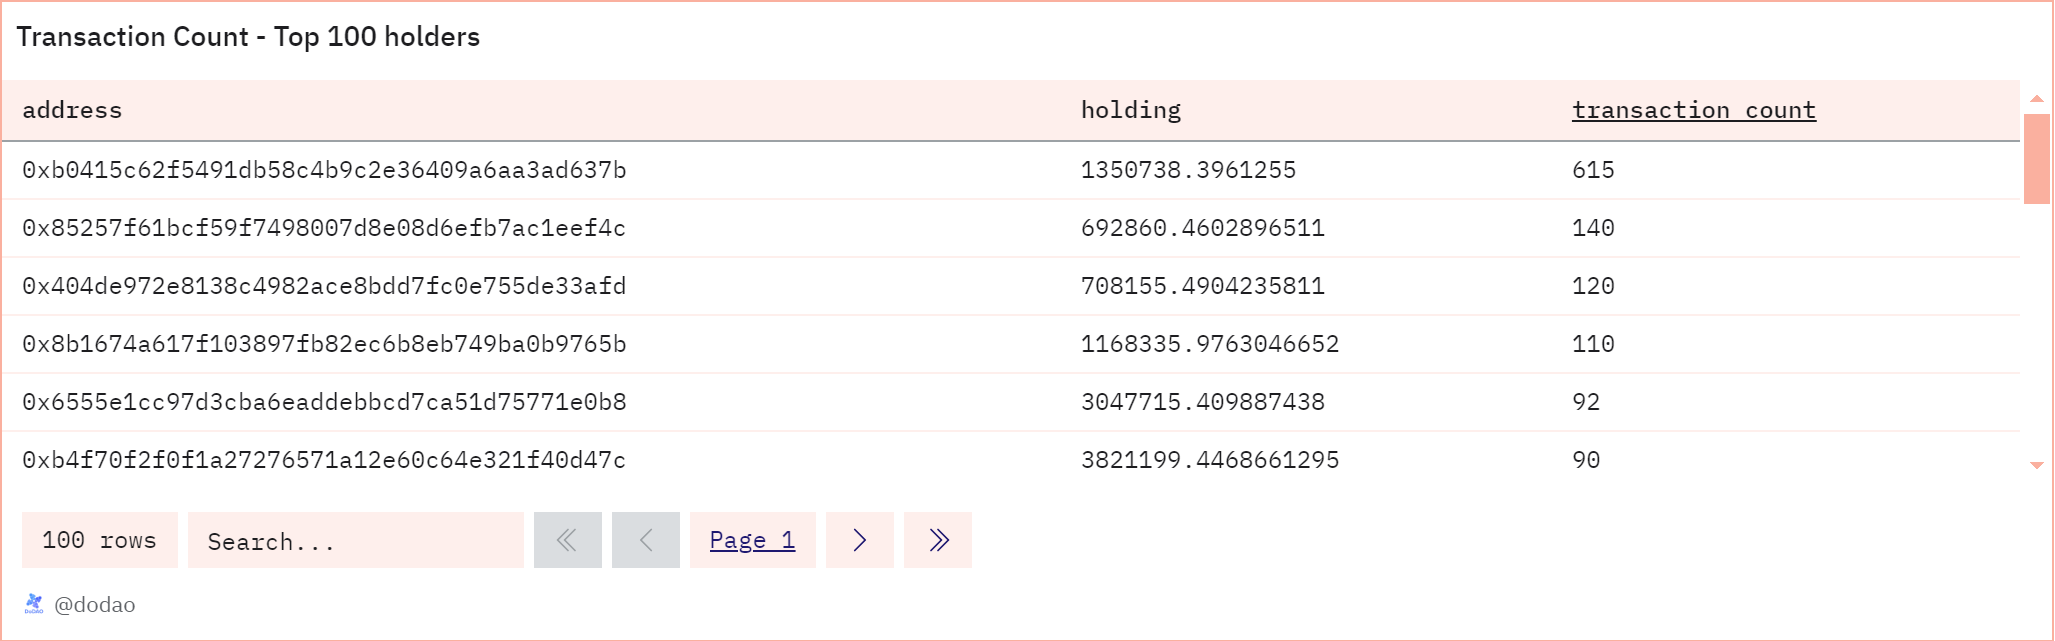
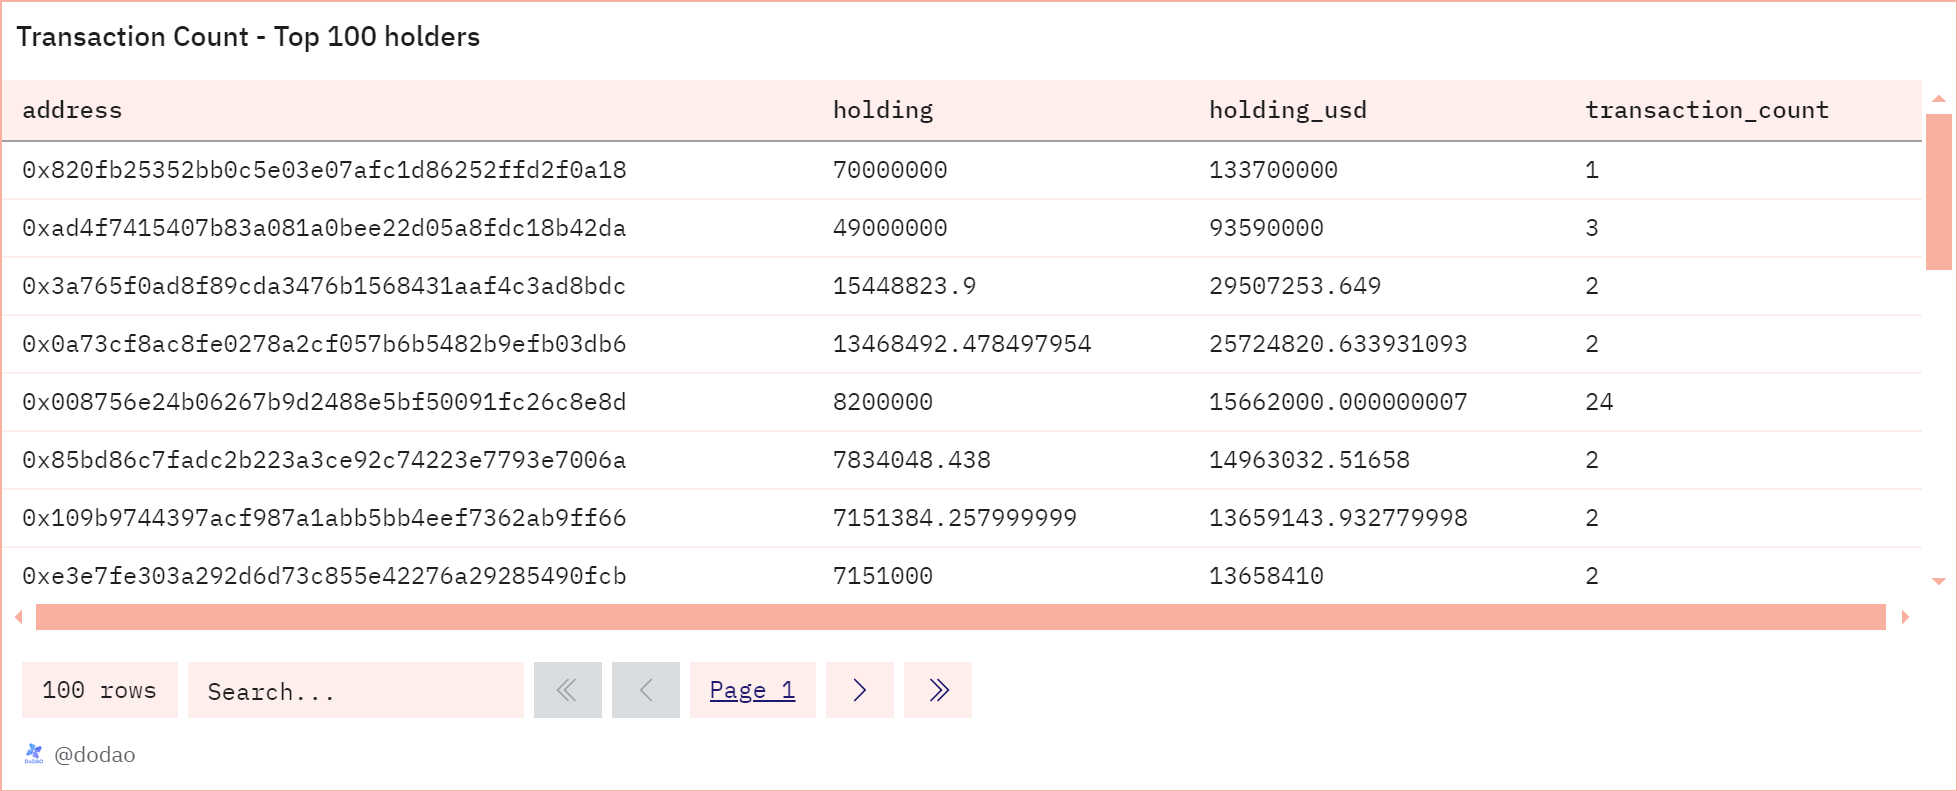
added holding_usd into transation count - top 100 holders

diff --git a/src/compound/asset-analysis/07-transaction-count-top-100-holder/README.md b/src/compound/asset-analysis/07-transaction-count-top-100-holder/README.md
@@ -4,7 +4,7 @@ This query calculates the total transaction count for the top 100 holders of the
 
 # Graph
 
-![assetDistributionOnDex](transaction-count.png)
+![transactionCount](transaction-count.png)
 
 # Relevance
 
@@ -15,24 +15,23 @@ This query calculates the total transaction count for the top 100 holders of the
 
 This query calculates the top 100 token holders by their token holdings, including their token values in USD. It also computes the total transaction count of these holders and joins this data for a comprehensive view of the top token holders and their activities.
 
-Price CTE calculates the average price of the specified token and retrieves its symbol and decimals
+Price CTE calculates the price of the specified token and retrieves its symbol and decimals
 
 ```sql
 price AS (
     SELECT
       symbol,
       decimals,
-      AVG(token_price_usd) AS price
+      price
     FROM
-      dex.prices_latest,
-      tokens.erc20
+      prices.usd_latest
     WHERE
-      token_address = {{token_address}}
-      AND contract_address = {{token_address}}
+      contract_address = {{token_address}}
       AND blockchain = '{{chain}}'
-    GROUP BY
-      1,
-      2
+    ORDER BY
+      minute DESC
+    LIMIT
+      1
   )
 ```
 
